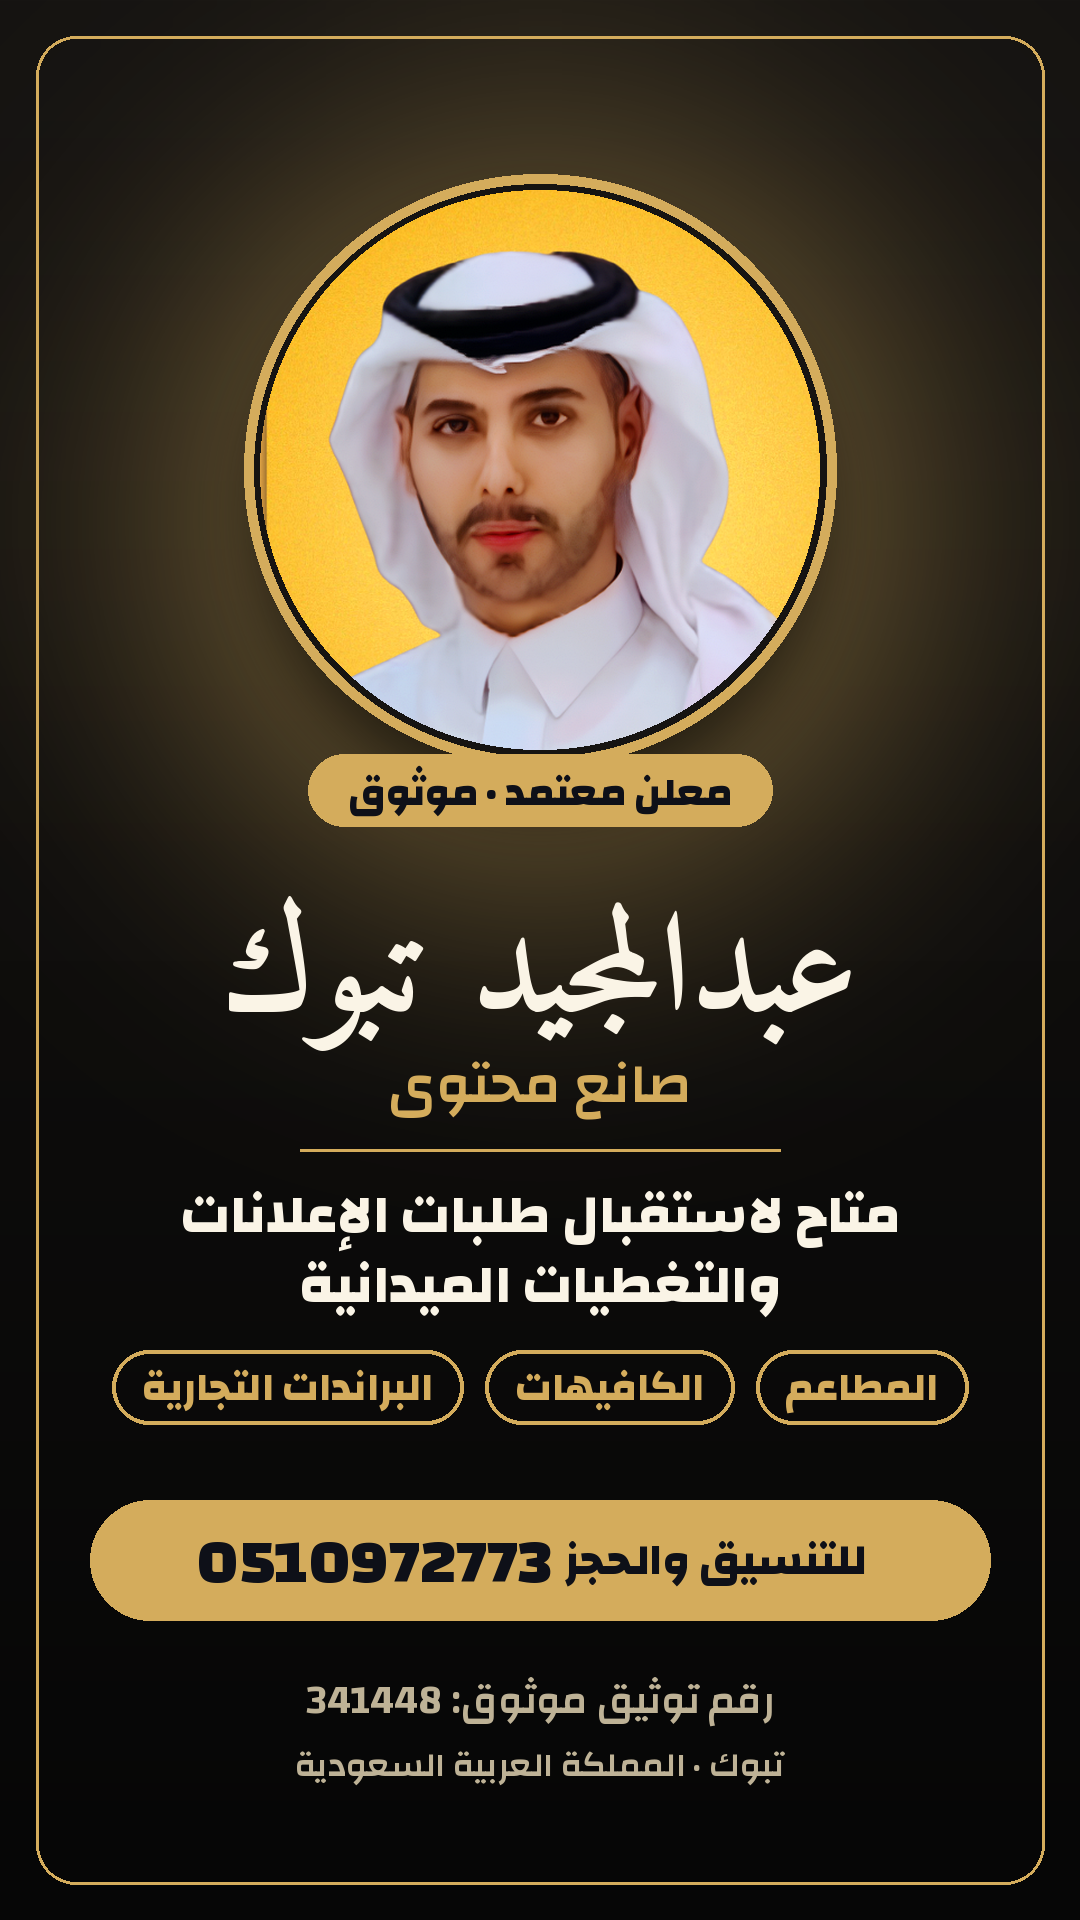
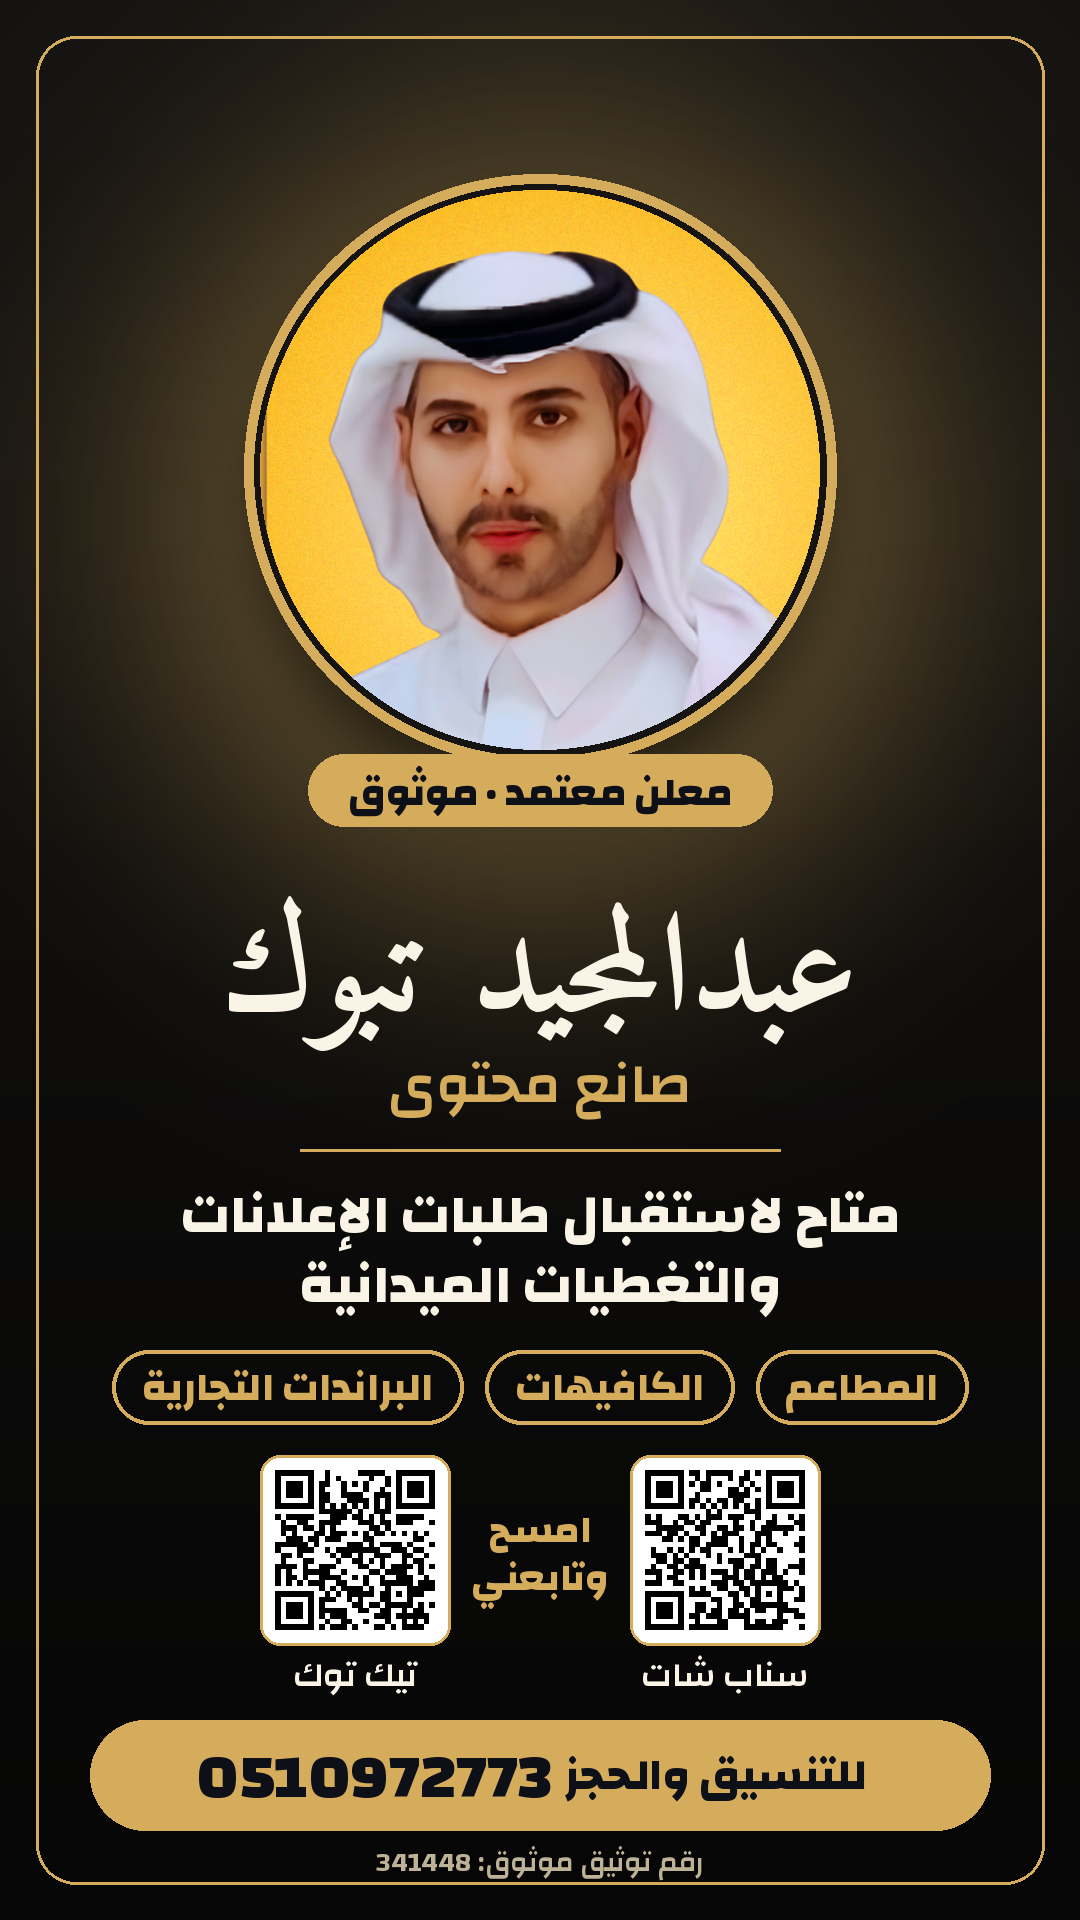
Poster: TikTok/Snap QR codes back in all 3 themes
Claude-Session: https://claude.ai/code/session_01CcVGvtrbVu7xBBGWmrBYGh

Changed region(s): [[0.0611, 0.75, 0.9167, 1.0]]

diff --git a/poster/make_poster.py b/poster/make_poster.py
@@ -1,6 +1,6 @@
 """Ad-rate poster for عبدالمجيد تبوك (1080x1920 story size), several themes.
 usage: python3 -I make_poster.py THEME out.png fonts_dir     (THEME: navy | black | white)"""
-import sys
+import sys, qrcode
 from PIL import Image, ImageDraw, ImageFont, ImageFilter, ImageEnhance
 THEME, OUT, FD = sys.argv[1:4]
 W, H = 1080, 1920
@@ -83,12 +83,20 @@ for s, w in zip(chips, ws):
     d.rounded_rectangle((x - w, 1350, x, 1424), 37, outline=ACC, width=4)
     text((x - w / 2, 1387), s, fc, ACC); x -= w + gap
 
-# phone bar
-d.rounded_rectangle((90, 1500, 990, 1620), 60, fill=ACC)
-text((cx + 175, 1560), "للتنسيق والحجز", F(T["body"], 44), ON_ACC)
-text((cx - 165, 1562), "0510972773", F(T["body"], 62), ON_ACC)
+# QR codes (TikTok / Snapchat)
+def qr(url, size=170):
+    q = qrcode.QRCode(border=1, box_size=10); q.add_data(url); q.make(fit=True)
+    return q.make_image(fill_color="black", back_color="white").convert("RGB").resize((size, size), Image.NEAREST)
+for url, lbl, qx in (("https://snapchat.com/t/CDMKZQ8l", "سناب شات", 640), ("https://www.tiktok.com/@zzs_1", "تيك توك", 270)):
+    d.rounded_rectangle((qx - 10, 1455, qx + 180, 1645), 20, fill=(255, 255, 255), outline=ACC, width=3)
+    c.paste(qr(url), (qx, 1465))
+    text((qx + 85, 1675), lbl, F(T["sub"], 34), TXT)
+text((cx, 1530), "امسح", F(T["body"], 38), ACC)
+text((cx, 1578), "وتابعني", F(T["body"], 38), ACC)
 
-# footer: verification number + city
-text((cx, 1700), "رقم توثيق موثوق: 341448", F(T["sub"], 40), SOFT)
-text((cx, 1765), "تبوك · المملكة العربية السعودية", F(T["sub"], 34), SOFT)
+# phone bar
+d.rounded_rectangle((90, 1720, 990, 1830), 55, fill=ACC)
+text((cx + 175, 1775), "للتنسيق والحجز", F(T["body"], 44), ON_ACC)
+text((cx - 165, 1777), "0510972773", F(T["body"], 62), ON_ACC)
+text((cx, 1862), "رقم توثيق موثوق: 341448", F(T["sub"], 28), SOFT)
 c.save(OUT)
